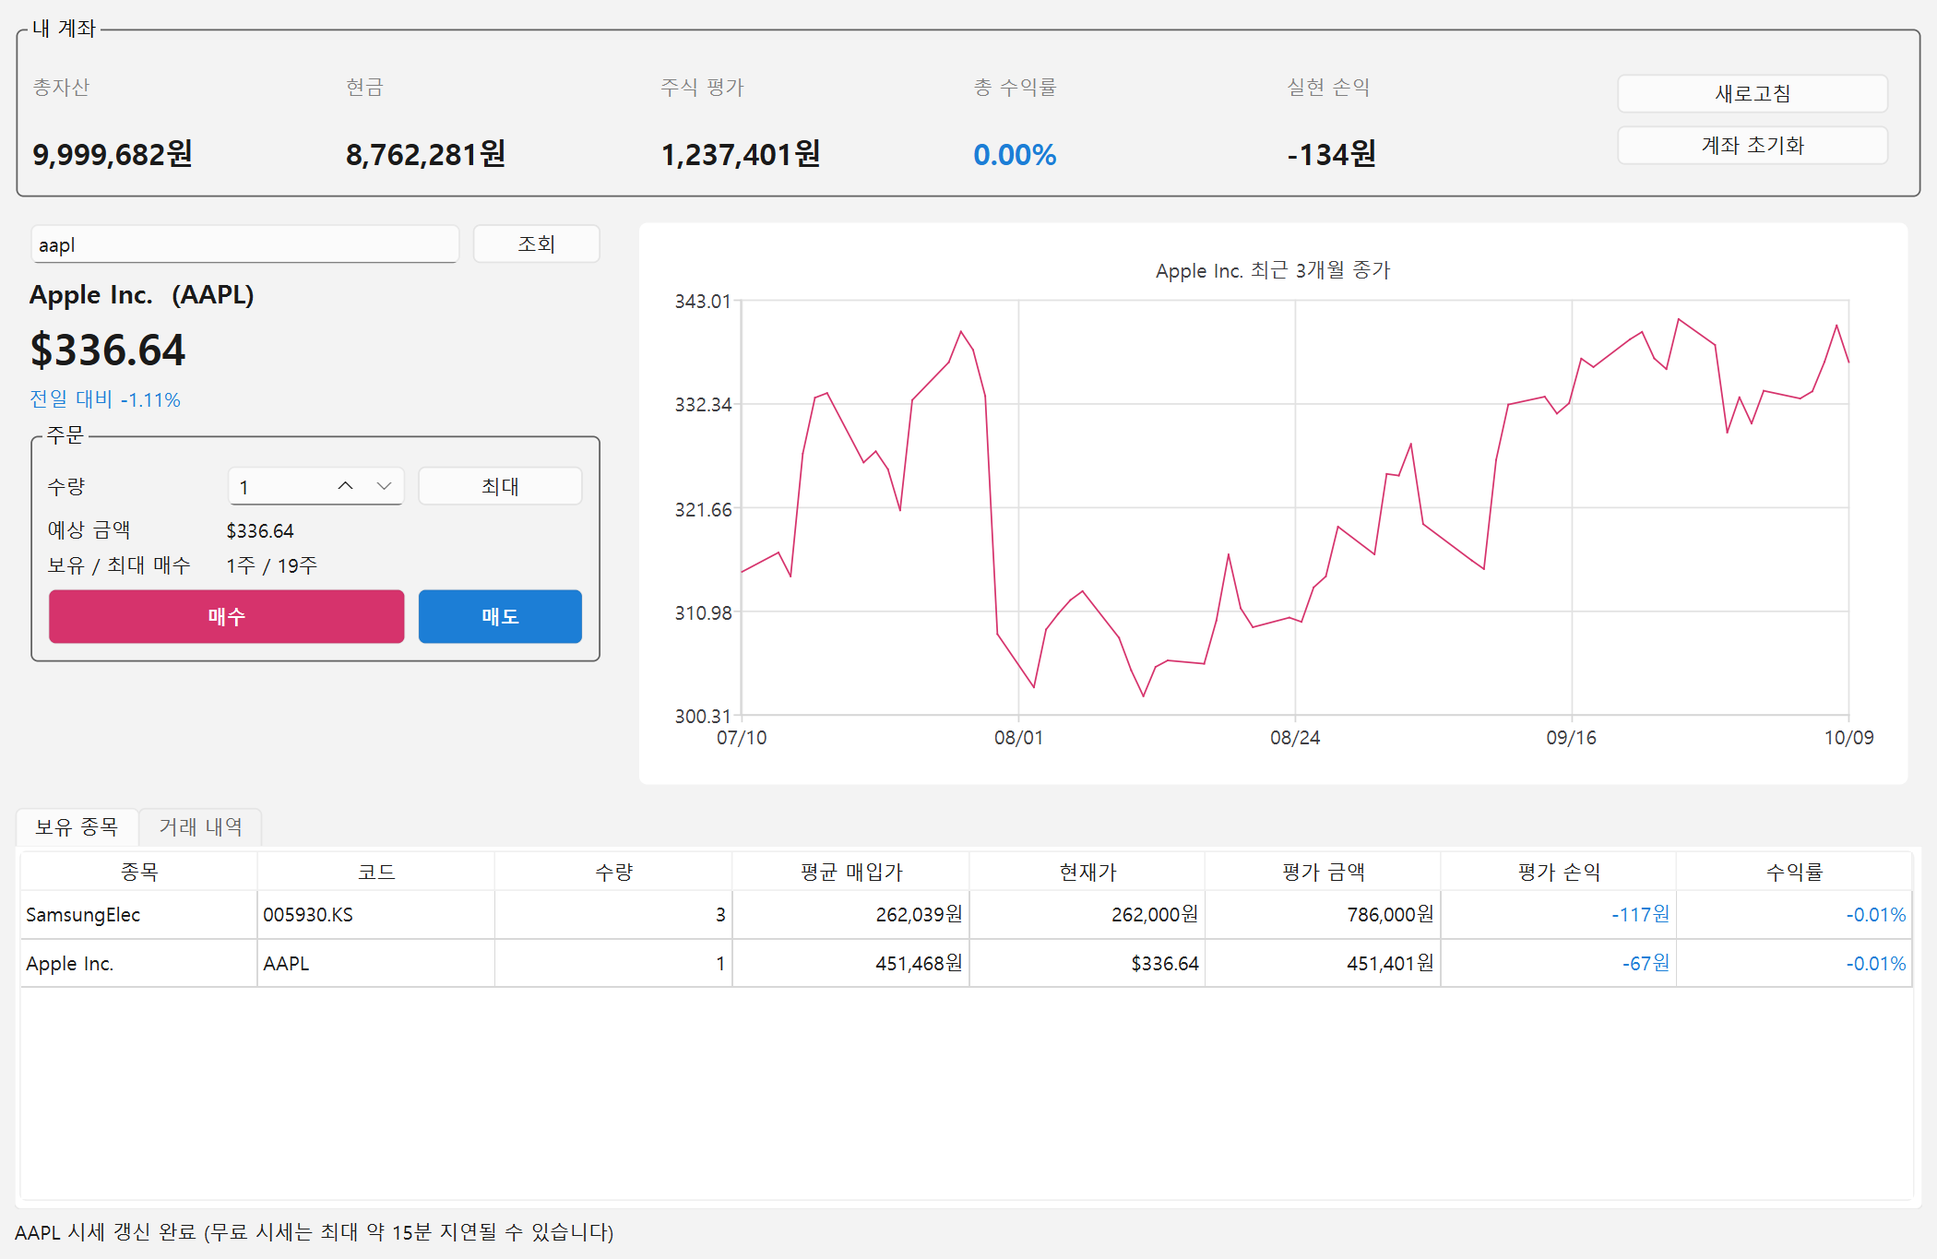
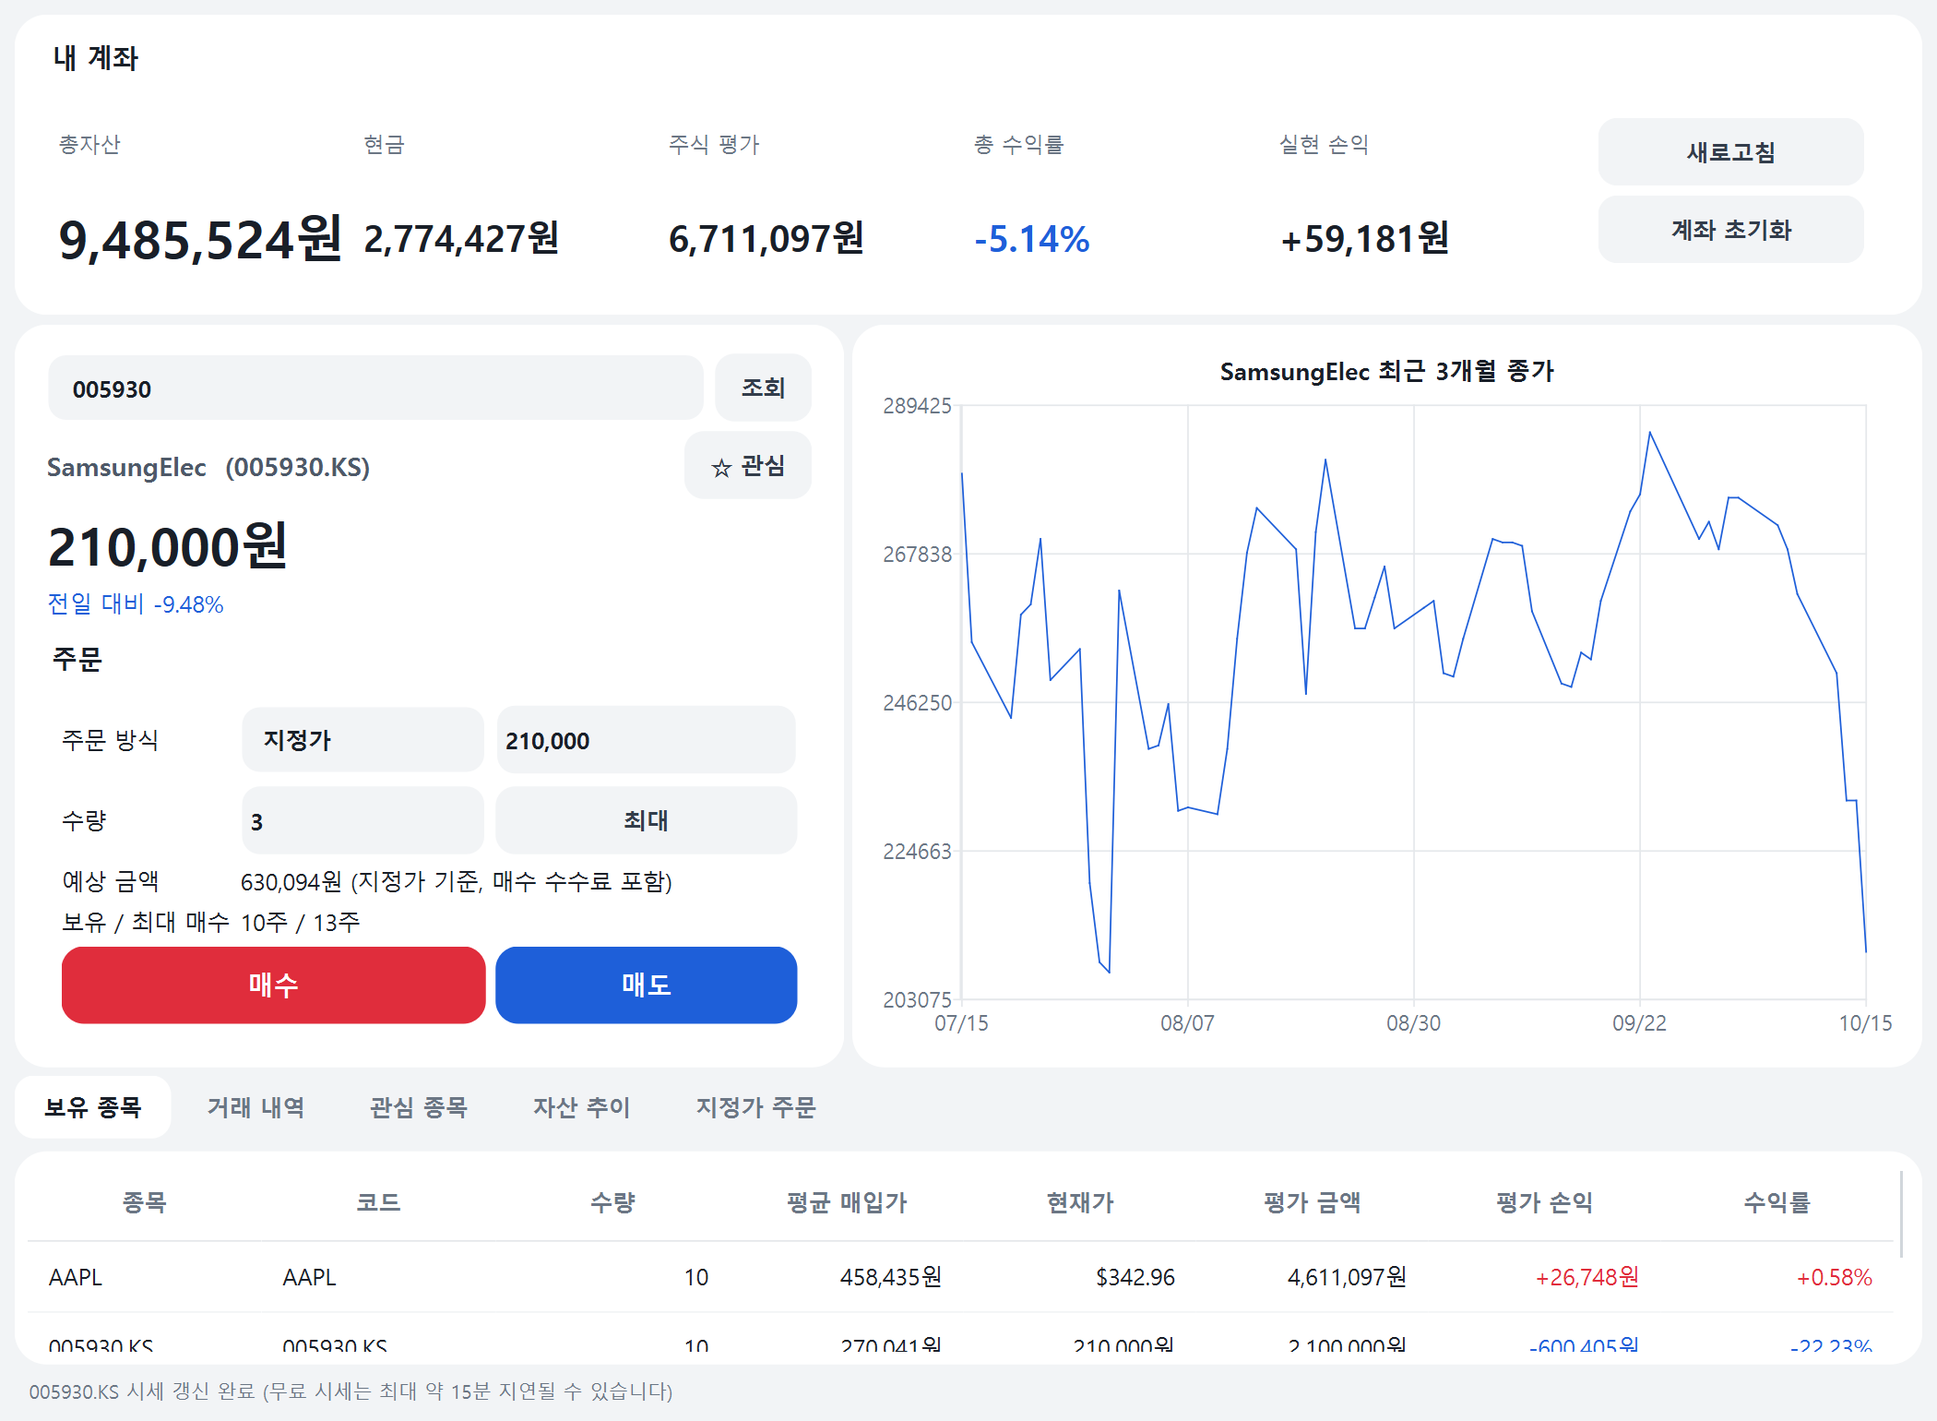
style: 핀테크 앱 느낌의 화면 테마 + 지정가 후속(Q1·Q2)
- ui/theme.py: 연한 회색 바탕, 흰 둥근 카드, 큰 숫자(총자산·현재가), 파란 포인트 하나, 선 없는 표·넉넉한 줄 높이,
  알약 모양 탭, 입력칸 포커스 테두리, 차트 카드·연한 격자, 상승 #E02D3C·하락 #1E5FD9(흰 바탕 대비 4.5:1 이상)
- 시세 영역을 카드로, 주문 묶음은 카드 안 평평한 그룹으로, 숫자 칸 화살표 숨김
  (NoButtons는 스타일시트와 함께 쓰면 안쪽 입력칸 폭이 1px이 되는 Qt 문제가 있어 버튼 폭 0으로 처리 — 회귀 테스트)
- 화면 배치와 동작은 그대로(위젯 이름·탭 구성 유지)
- Mock_QA Q1: 보류 문구는 조건이 풀리거나 환율이 정상으로 돌아오면 지움 / Q2: 확인창 "약 1분 간격"
- README 스크린샷 교체, 테스트 2개 추가(총 167개)

diff --git a/mock_trading/ui/main_window.py b/mock_trading/ui/main_window.py
@@ -37,6 +37,7 @@ from ..history import AssetPoint, DailyCloseCache, load_asset_history
 from ..market_data import PricePoint
 from ..watchlist import Watchlist, WatchRow
 from . import format as fmt
+from .theme import style_axes, style_chart
 from .worker import Worker
 
 AUTO_REFRESH_MS = 60_000
@@ -73,8 +74,9 @@ def _plain_label(text: str) -> QLabel:
 def _order_button_style(color: str) -> str:
     # 배경색을 직접 지정하면 비활성 상태도 같은 색으로 보이므로 :disabled 모양을 따로 둔다.
     return (
-        f"QPushButton {{ background: {color}; color: white; padding: 8px; font-weight: 600; }}"
-        "QPushButton:disabled { background: #ced4da; color: #6c757d; }"
+        f"QPushButton {{ background: {color}; color: white; border-radius: 14px; padding: 12px;"
+        " font-size: 16px; font-weight: 700; }"
+        "QPushButton:disabled { background: #E5E8EB; color: #8B95A1; }"
     )
 
 
@@ -142,6 +144,7 @@ class MainWindow(QMainWindow):
         layout.addWidget(splitter, 1)
 
         self.status = _plain_label("종목 코드를 입력하세요. 예) 005930(삼성전자), AAPL")
+        self.status.setObjectName("status")
         layout.addWidget(self.status)
         self.setCentralWidget(root)
 
@@ -153,9 +156,9 @@ class MainWindow(QMainWindow):
             [("total", "총자산"), ("cash", "현금"), ("stock", "주식 평가"), ("return", "총 수익률"), ("realized", "실현 손익")]
         ):
             caption = QLabel(title)
-            caption.setStyleSheet("color: gray;")
+            caption.setObjectName("caption")
             value = QLabel("-")
-            value.setStyleSheet("font-size: 18px; font-weight: 600;")
+            value.setObjectName("heroNumber" if key == "total" else "bigNumber")
             grid.addWidget(caption, 0, column)
             grid.addWidget(value, 1, column)
             self.summary_labels[key] = value
@@ -174,7 +177,10 @@ class MainWindow(QMainWindow):
 
     def _build_quote_panel(self) -> QWidget:
         panel = QWidget()
+        panel.setObjectName("card")  # 흰 카드(theme.py)
+        panel.setAttribute(Qt.WA_StyledBackground, True)
         layout = QVBoxLayout(panel)
+        layout.setContentsMargins(20, 18, 20, 18)
 
         search = QHBoxLayout()
         self.symbol_input = QLineEdit()
@@ -188,9 +194,9 @@ class MainWindow(QMainWindow):
         layout.addLayout(search)
 
         self.name_label = _plain_label("-")
-        self.name_label.setStyleSheet("font-size: 16px; font-weight: 600;")
+        self.name_label.setStyleSheet("font-size: 16px; font-weight: 600; color: #4E5968;")
         self.price_label = QLabel("-")
-        self.price_label.setStyleSheet("font-size: 26px; font-weight: 700;")
+        self.price_label.setStyleSheet("font-size: 32px; font-weight: 800;")
         self.change_label = QLabel("")
         name_row = QHBoxLayout()
         name_row.addWidget(self.name_label, 1)
@@ -204,6 +210,7 @@ class MainWindow(QMainWindow):
         layout.addWidget(self.change_label)
 
         order = QGroupBox("주문")
+        order.setObjectName("flat")  # 카드 안의 묶음: 테두리·배경 없이
         form = QGridLayout(order)
         self.quantity = QSpinBox()
         self.quantity.setRange(1, MAX_ORDER_QUANTITY)
@@ -249,6 +256,7 @@ class MainWindow(QMainWindow):
 
     def _build_chart(self) -> QWidget:
         self.chart = QChart()
+        style_chart(self.chart)
         self.chart.legend().hide()
         self.chart.setTitle("최근 3개월 종가")
         view = QChartView(self.chart)
@@ -279,6 +287,7 @@ class MainWindow(QMainWindow):
         self.history_label = _plain_label("-")
         history_layout.addWidget(self.history_label)
         self.history_chart = QChart()
+        style_chart(self.history_chart)
         self.history_chart.setTitle("날짜별 총자산")
         history_view = QChartView(self.history_chart)
         history_view.setRenderHint(QPainter.Antialiasing)
@@ -307,6 +316,9 @@ class MainWindow(QMainWindow):
         table.setEditTriggers(QAbstractItemView.NoEditTriggers)
         table.setSelectionBehavior(QAbstractItemView.SelectRows)
         table.verticalHeader().hide()
+        table.verticalHeader().setDefaultSectionSize(44)
+        table.setShowGrid(False)
+        table.setFocusPolicy(Qt.NoFocus)
         table.horizontalHeader().setSectionResizeMode(QHeaderView.Stretch)
         return table
 
@@ -502,6 +514,7 @@ class MainWindow(QMainWindow):
         for series in (principal, total):
             series.attachAxis(x_axis)
             series.attachAxis(y_axis)
+        style_axes(chart)
 
         # 최고·최저는 그날 종가로 평가한 날만으로 계산한다(대신 쓴 체결가가 튀는 값을 만들지 않게).
         priced = [p for p in points if not p.missing_price] or points
@@ -721,7 +734,7 @@ class MainWindow(QMainWindow):
             f"가격이 {fmt.price(limit, quote.currency)} {condition} {quantity:,}주를 지정가로 {verb}합니다.\n"
             f"예상 금액: {fmt.won(amount)} (수수료·세금 약 {fmt.won(fee)})\n"
             + (f"적용 환율: {self.current.fx_rate:,}원/달러 (주문 기준값으로 저장)\n" if quote.currency is Currency.USD else "")
-            + "\n앱이 켜져 있는 동안 1분마다 확인하고, 1분 이상 간격으로 두 번 연속 조건이 맞을 때 체결합니다.\n"
+            + "\n앱이 켜져 있는 동안 1분마다 확인하고, 약 1분 간격으로 두 번 연속 조건이 맞을 때 체결합니다.\n"
             "취소할 때까지 유지되며, 체결할 때 현금이나 보유 수량이 부족하면 거부됩니다."
             + ("\n미국 주식은 체결 때 환율이 주문 때보다 10% 넘게 다르면 체결을 미룹니다." if quote.currency is Currency.USD else "")
         )
@@ -891,6 +904,7 @@ class MainWindow(QMainWindow):
         self.chart.addAxis(y_axis, Qt.AlignLeft)
         series.attachAxis(x_axis)
         series.attachAxis(y_axis)
+        style_axes(self.chart)
         self.chart.setTitle(html.escape(f"{quote.name} 최근 3개월 종가"))  # QChart 제목은 HTML을 해석한다
 
     def _show_portfolio(self, view: _PortfolioView) -> None:
@@ -900,9 +914,7 @@ class MainWindow(QMainWindow):
         self.summary_labels["stock"].setText(fmt.won(summary.stock_value))
         rate = summary.total_return_rate
         self.summary_labels["return"].setText(fmt.percent(rate))
-        self.summary_labels["return"].setStyleSheet(
-            f"font-size: 18px; font-weight: 600; color: {fmt.color_for(rate)};"
-        )
+        self.summary_labels["return"].setStyleSheet(f"color: {fmt.color_for(rate)};")
         self.summary_labels["realized"].setText(fmt.signed_won(summary.realized_profit))
 
         self.holdings_table.setRowCount(len(view.positions))

diff --git a/mock_trading/ui/theme.py b/mock_trading/ui/theme.py
@@ -1,0 +1,164 @@
+"""앱 전체 모양. 연한 회색 바탕 위에 흰 둥근 카드, 큰 숫자, 파란 포인트 하나.
+
+색은 format.py의 상승(빨강)·하락(파랑)과 맞춘다.
+"""
+from __future__ import annotations
+
+from PySide6.QtGui import QColor, QFont, QPen
+from PySide6.QtWidgets import QApplication
+
+BACKGROUND = "#F2F4F6"
+CARD = "#FFFFFF"
+TEXT = "#191F28"
+TEXT_SUB = "#6B7684"   # 흰 바탕 대비 4.5:1 이상
+LINE = "#E5E8EB"
+ACCENT = "#1E5FD9"
+ACCENT_SOFT = "#E8EEFB"
+
+# 설치돼 있으면 쓰고, 없으면 윈도우 기본 한글 글꼴로
+FONT_FAMILIES = ["Pretendard", "IBM Plex Sans KR", "Malgun Gothic", "Apple SD Gothic Neo", "sans-serif"]
+
+STYLESHEET = f"""
+QWidget {{
+    color: {TEXT};
+    font-size: 14px;
+}}
+QMainWindow, QMainWindow > QWidget {{
+    background: {BACKGROUND};
+}}
+QGroupBox {{
+    background: {CARD};
+    border: none;
+    border-radius: 20px;
+    margin-top: 0;
+    padding: 46px 18px 14px 18px;
+    font-size: 16px;
+    font-weight: 700;
+}}
+QGroupBox::title {{
+    subcontrol-origin: padding;
+    subcontrol-position: top left;
+    left: 20px;
+    top: 16px;
+    color: {TEXT};
+}}
+QGroupBox#flat {{ background: transparent; padding: 38px 0 0 0; }}
+QGroupBox#flat::title {{ left: 0; top: 8px; }}
+QWidget#card {{ background: {CARD}; border-radius: 20px; }}
+QPushButton {{
+    background: {BACKGROUND};
+    border: none;
+    border-radius: 12px;
+    padding: 9px 16px;
+    min-height: 24px;
+    font-weight: 600;
+    color: #333D4B;
+}}
+QPushButton:hover {{ background: {LINE}; }}
+QPushButton:disabled {{ color: #B0B8C1; }}
+QPushButton:checked {{ background: #FFF4E5; color: #B86100; }}
+QLineEdit, QSpinBox, QDoubleSpinBox, QComboBox {{
+    background: {BACKGROUND};
+    border: 2px solid transparent;
+    border-radius: 12px;
+    padding: 7px 12px;
+    min-height: 24px;
+    font-weight: 600;
+    selection-background-color: {ACCENT_SOFT};
+    selection-color: {TEXT};
+}}
+QLineEdit:focus, QSpinBox:focus, QDoubleSpinBox:focus, QComboBox:focus {{
+    border: 2px solid {ACCENT};
+    background: {CARD};
+}}
+QLineEdit:disabled, QDoubleSpinBox:disabled {{ color: #B0B8C1; }}
+QSpinBox, QDoubleSpinBox {{ padding: 0 12px; min-height: 40px; }}
+/* 숫자 칸 안에도 QLineEdit가 들어 있어 위의 입력칸 모양이 한 번 더 입혀지면 글씨가 밀려 사라진다 */
+QAbstractSpinBox QLineEdit {{ background: transparent; border: none; padding: 0; min-height: 0; }}
+/* 화살표는 숨긴다. setButtonSymbols(NoButtons)는 스타일시트와 함께 쓰면 안쪽 입력칸 폭이 1px로 계산되는
+   Qt 문제가 있어, 버튼은 둔 채 폭을 0으로 만든다(키보드 위아래·휠은 그대로 동작). */
+QAbstractSpinBox::up-button, QAbstractSpinBox::down-button {{ width: 0; border: none; }}
+QAbstractSpinBox::up-arrow, QAbstractSpinBox::down-arrow {{ image: none; width: 0; height: 0; }}
+QComboBox::drop-down {{ border: none; width: 24px; }}
+QComboBox QAbstractItemView {{
+    background: {CARD};
+    border: 1px solid {LINE};
+    border-radius: 8px;
+    selection-background-color: {ACCENT_SOFT};
+    selection-color: {TEXT};
+}}
+QTabWidget::pane {{
+    background: {CARD};
+    border: none;
+    border-radius: 20px;
+    padding: 8px;
+}}
+QTabBar::tab {{
+    background: transparent;
+    color: {TEXT_SUB};
+    padding: 10px 18px;
+    margin: 0 4px 8px 0;
+    border-radius: 12px;
+    font-weight: 700;
+}}
+QTabBar::tab:selected {{ background: {CARD}; color: {TEXT}; }}
+QTabBar::tab:hover:!selected {{ background: {LINE}; }}
+QTableWidget {{
+    background: {CARD};
+    border: none;
+    gridline-color: transparent;
+    selection-background-color: {ACCENT_SOFT};
+    selection-color: {TEXT};
+    outline: none;
+}}
+QTableWidget::item {{ padding: 6px 10px; border-bottom: 1px solid #F2F4F6; }}
+QHeaderView::section {{
+    background: {CARD};
+    border: none;
+    border-bottom: 1px solid {LINE};
+    padding: 10px;
+    color: {TEXT_SUB};
+    font-weight: 600;
+}}
+QTableCornerButton::section {{ background: {CARD}; border: none; }}
+QSplitter::handle {{ background: transparent; }}
+QScrollBar:vertical {{ background: transparent; width: 10px; margin: 4px; }}
+QScrollBar::handle:vertical {{ background: #D1D6DB; border-radius: 3px; min-height: 30px; }}
+QScrollBar::add-line, QScrollBar::sub-line {{ height: 0; width: 0; }}
+QChartView {{ background: {CARD}; border-radius: 20px; }}
+QMessageBox, QInputDialog {{ background: {CARD}; }}
+QLabel#caption {{ color: {TEXT_SUB}; font-size: 13px; font-weight: 500; }}
+QLabel#bigNumber {{ font-size: 22px; font-weight: 700; }}
+QLabel#heroNumber {{ font-size: 32px; font-weight: 800; }}
+QLabel#status {{ color: {TEXT_SUB}; font-size: 12px; padding: 2px 6px; }}
+"""
+
+
+def apply_theme(app: QApplication) -> None:
+    font = QFont()
+    font.setFamilies(FONT_FAMILIES)
+    font.setPointSize(10)
+    app.setFont(font)
+    app.setStyleSheet(STYLESHEET)
+
+
+def style_chart(chart) -> None:
+    """QtCharts 기본 회색 테두리·배경 대신 카드와 같은 모양."""
+    chart.setBackgroundBrush(QColor(CARD))
+    chart.setBackgroundRoundness(20)
+    chart.setMargins(chart.margins().__class__(8, 8, 8, 8))
+    title_font = QFont()
+    title_font.setFamilies(FONT_FAMILIES)
+    title_font.setPointSize(11)
+    title_font.setBold(True)
+    chart.setTitleFont(title_font)
+    chart.setTitleBrush(QColor(TEXT))
+
+
+def style_axes(chart) -> None:
+    """축 글씨는 보조색, 격자는 아주 연하게."""
+    for axis in chart.axes():
+        axis.setLabelsColor(QColor(TEXT_SUB))
+        axis.setGridLineColor(QColor(LINE))
+        axis.setLinePen(QPen(QColor(LINE)))
+        axis.setTitleBrush(QColor(TEXT_SUB))

diff --git a/tests/test_limit_order.py b/tests/test_limit_order.py
@@ -356,3 +356,38 @@ def test_bad_fx_at_order_time_is_rejected(provider):
     with pytest.raises(TypeError):
         plain.place_limit_order(Side.BUY, "005930", 1, Decimal("70000"))  # 확인 가격은 필수
     assert plain.repo.orders() == []
+
+
+def test_hold_reason_is_cleared_when_situation_changes(broker, provider):
+    """Mock_QA Q1: 환율 보류 문구는 환율이 정상으로 돌아오거나 조건이 풀리면 지운다."""
+    broker.place_limit_order(Side.BUY, "AAPL", 1, Decimal("201"))  # 주문 환율 1300, 조건 충족(200.50)
+    provider.usd_krw = Decimal("1500")
+    clock = Clock()
+    broker.check_limit_orders(clock.now)
+    broker.check_limit_orders(clock.tick())
+    assert "환율 변동" in broker.repo.orders(open_only=True)[0].note
+    set_price(provider, "AAPL", "250", Currency.USD)  # 조건이 풀림
+    broker.check_limit_orders(clock.tick())
+    assert broker.repo.orders(open_only=True)[0].note == ""
+
+
+def test_spin_boxes_show_their_text_with_theme():
+    """스타일시트와 함께 숫자 칸 글씨가 사라지던 문제(안쪽 입력칸 폭 1px) 회귀 방지."""
+    import os
+
+    os.environ.setdefault("QT_QPA_PLATFORM", "offscreen")
+    from PySide6.QtWidgets import QApplication, QDoubleSpinBox, QSpinBox
+
+    from mock_trading.ui.theme import apply_theme
+
+    app = QApplication.instance() or QApplication([])
+    apply_theme(app)
+    try:
+        for box in (QSpinBox(), QDoubleSpinBox()):
+            box.resize(180, 44)
+            box.show()
+            app.processEvents()
+            assert box.lineEdit().width() > 100
+            box.close()
+    finally:
+        app.setStyleSheet("")

diff --git a/mock_trading/broker.py b/mock_trading/broker.py
@@ -334,6 +334,8 @@ class Broker:
             if not order.is_triggered(price):
                 if order.armed:
                     self.repo.set_order_armed(order.id, None)
+                if order.note:
+                    self.repo.set_order_note(order.id, "")  # 조건이 풀렸으니 이전 보류 이유는 지운다
                 continue
             if order.symbol not in confirmed:
                 try:
@@ -362,6 +364,8 @@ class Broker:
                 if order.fx_at_order is None:
                     self.repo.set_order_note(order.id, "주문 때 환율 기록이 없어 체결 보류 — 취소 후 다시 주문하세요")
                     continue
+                if abs(fx_now - order.fx_at_order) / order.fx_at_order * 100 <= FX_DRIFT_LIMIT and order.note:
+                    self.repo.set_order_note(order.id, "")  # 환율이 정상으로 돌아왔다
                 if abs(fx_now - order.fx_at_order) / order.fx_at_order * 100 > FX_DRIFT_LIMIT:
                     # 환율이 주문 때와 크게 달라 체결을 미룬다(오류 환율로 금액이 부풀지 않게)
                     self.repo.set_order_note(

diff --git a/mock_trading/__main__.py b/mock_trading/__main__.py
@@ -8,11 +8,13 @@ from .broker import Broker
 from .market_data import YFinanceProvider
 from .storage import Repository, default_db_path
 from .ui.main_window import MainWindow
+from .ui.theme import apply_theme
 
 
 def main() -> int:
     app = QApplication(sys.argv)
     app.setApplicationName("모의투자")
+    apply_theme(app)
     # DB는 작업 스레드 하나에서만 쓰도록 Worker가 보장한다.
     repo = Repository(default_db_path(), check_same_thread=False)
     window = MainWindow(Broker(repo, YFinanceProvider()))

diff --git a/mock_trading/ui/format.py b/mock_trading/ui/format.py
@@ -4,8 +4,8 @@ from decimal import Decimal
 
 from ..domain import Currency, krw
 
-UP_COLOR = "#d6336c"    # 한국 증시 관례: 상승 빨강
-DOWN_COLOR = "#1c7ed6"  # 하락 파랑
+UP_COLOR = "#E02D3C"    # 한국 증시 관례: 상승 빨강
+DOWN_COLOR = "#1E5FD9"  # 하락 파랑 (흰 바탕 대비 4.5:1 이상)
 
 
 def won(value: Decimal) -> str:

diff --git a/README.md b/README.md
@@ -10,6 +10,8 @@
 
 ## 주요 기능
 
+깔끔한 핀테크 앱 느낌(연한 회색 바탕, 흰 둥근 카드, 큰 숫자, 상승 빨강·하락 파랑)으로 꾸몄습니다. 모양은 `mock_trading/ui/theme.py` 한 곳에 모여 있습니다.
+
 - **기초 자금 받기**: 처음 실행하면 연습에 쓸 가상 자금(원)을 정합니다. 언제든 초기화하고 다시 시작할 수 있습니다.
 - **실제 시세 조회**: 한국 주식은 6자리 코드(`005930`), 미국 주식은 티커(`AAPL`)로 조회합니다. 코스피/코스닥은 자동으로 구분합니다.
 - **매수·매도**: 현재가로 체결됩니다. 수수료(0.015%)와 국내 주식 매도 거래세(0.20% 가정)를 반영합니다.
